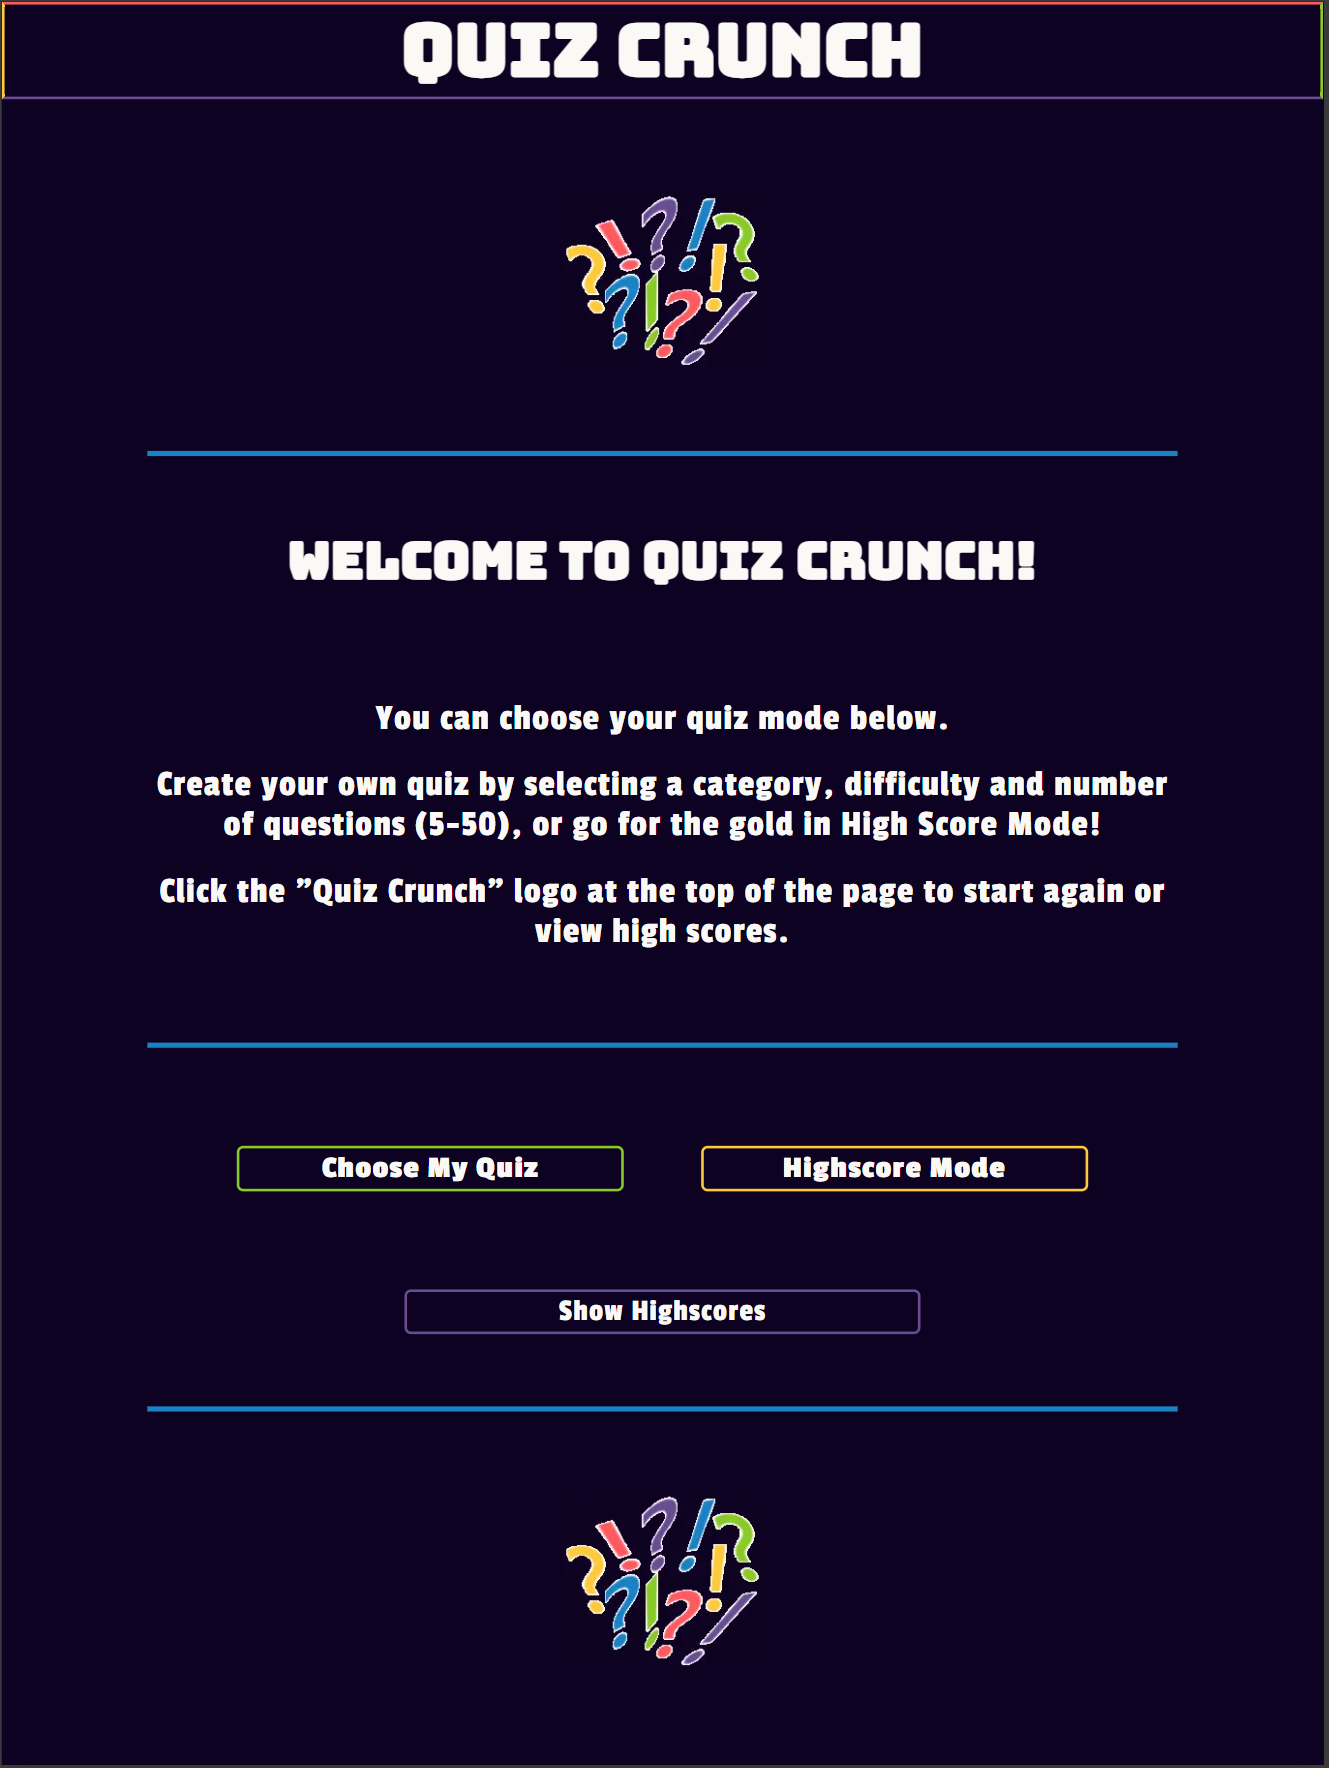
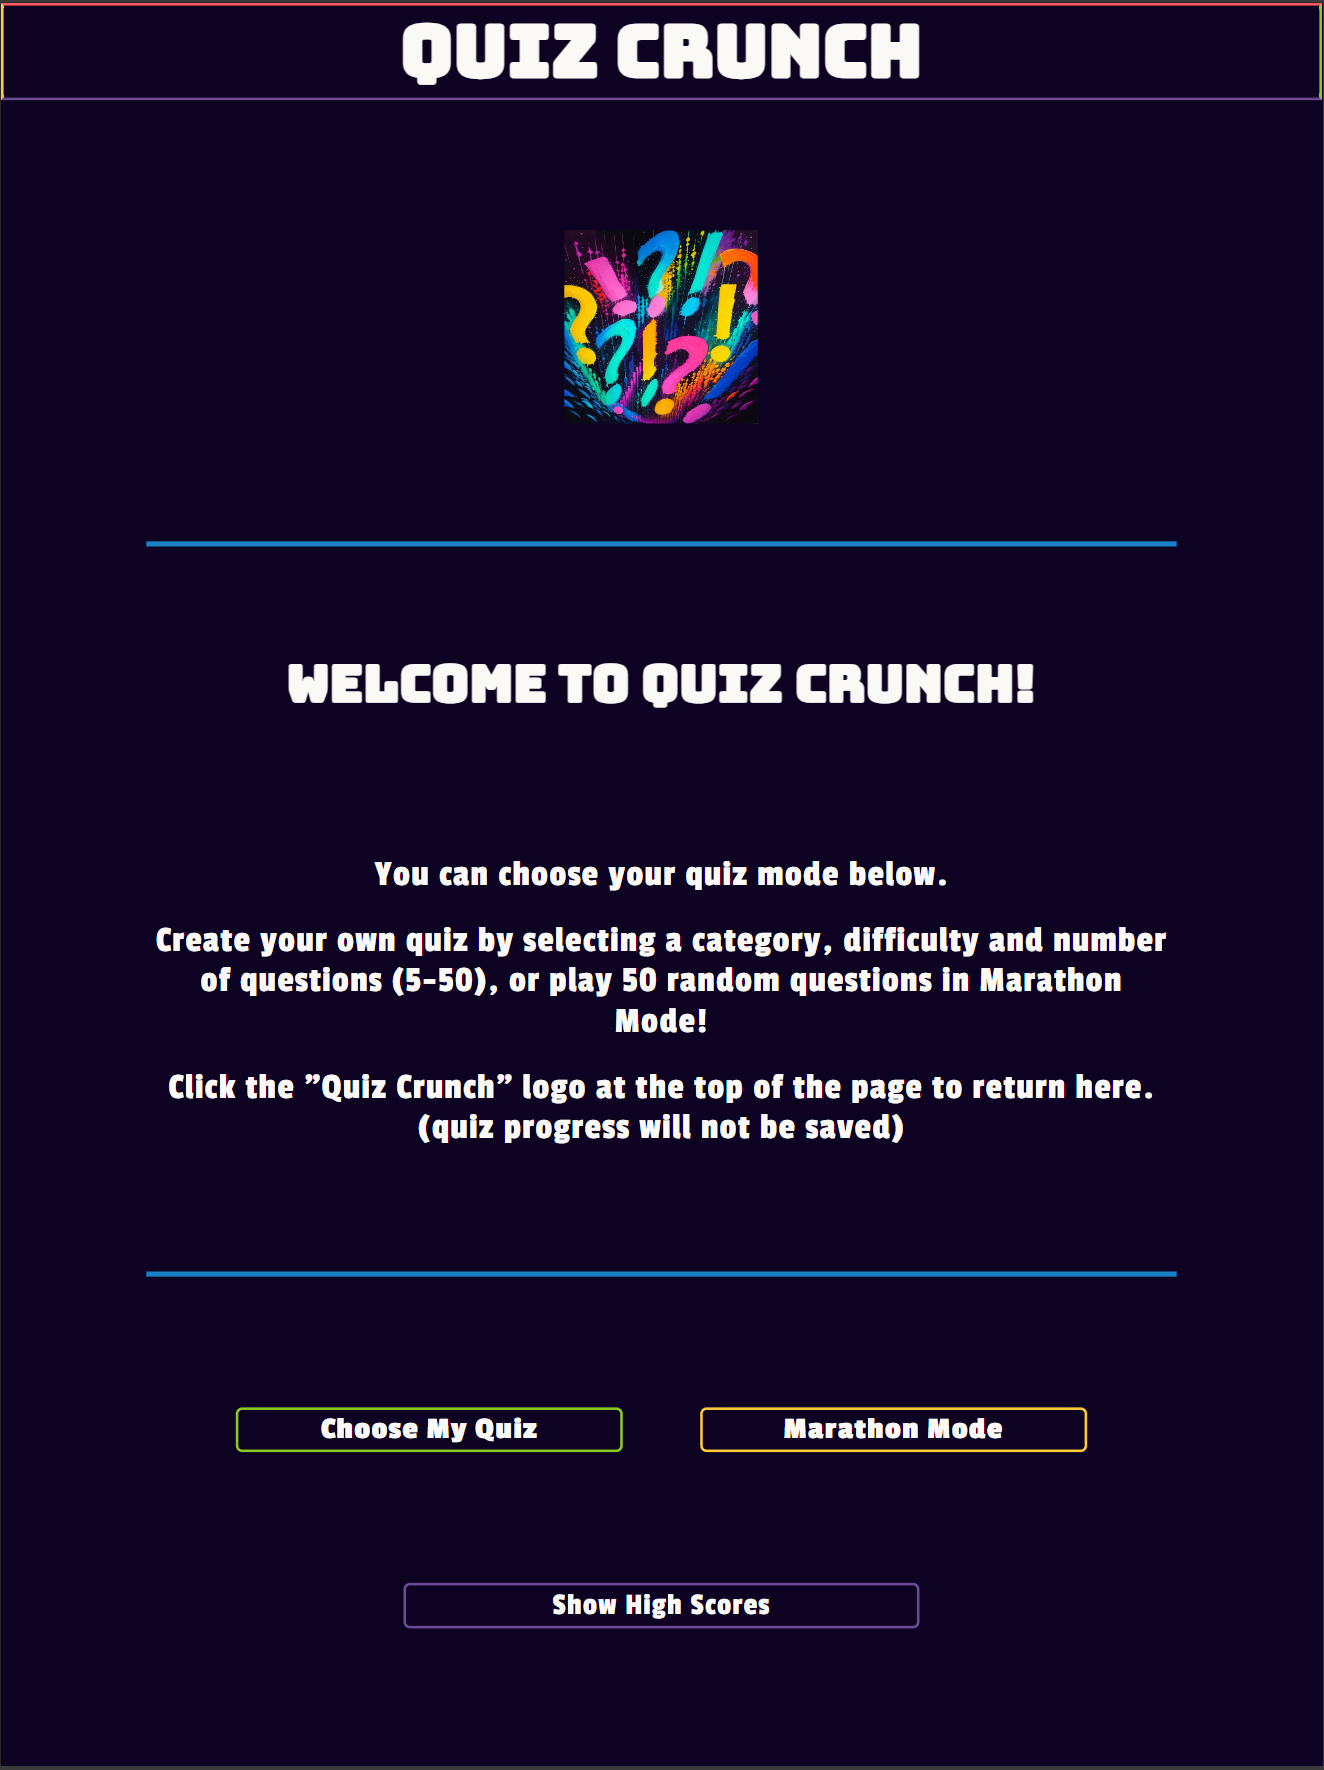
Fix link and update images for README

diff --git a/README.md b/README.md
@@ -78,7 +78,7 @@ I used 2 similar-looking fonts to add to the theme of the site. The font used fo
 
 ### Logo
 
-I used Microsoft Paint and the chosen colour palette to create a simple logo. I used question marks and exclamation marks to make a fun and vibrant logo. I then ran the image through the AI image generator, [imagine.art]](https://www.imagine.art/) to create a professional, fun looking logo. Although the AI image generator changed some of the colours used in the image, I feel as though the logo fits the theme of the site very well. 
+I used Microsoft Paint and the chosen colour palette to create a simple logo. I used question marks and exclamation marks to make a fun and vibrant logo. I then ran the image through the AI image generator, [imagine.art](https://www.imagine.art/) to create a professional, fun looking logo. Although the AI image generator changed some of the colours used in the image, I feel as though the logo fits the theme of the site very well. 
 
 ![Logo](/assets/images/logo.webp)
 
@@ -92,7 +92,7 @@ Before developing the site, I mocked up some simple wireframes of some of the se
 
 The site is made up of one single page, split into 5 different sections, with only one section being shown at a time. The 5 sections are welcome, form, ready, quiz, and high scores.
 
-From the welcome section, the user can decide to choose their own quiz, play a random 50 question quiz, or view their local highscores. 
+From the welcome section, the user can decide to choose their own quiz, play a random 50 question quiz, or view their local high scores. 
 
 When playing the quiz, the question will be shown with 4 answers, each in their own box. The user must press or click on their chosen answer to submit it. Once an answer has been pressed, the correct answer border is momentarily changed to green and all incorrect answers to red. There is also a "correct / wrong" feedback message displayed in place of the current score. The next question is automatically displayed until all questions have been played. There is no time limit for any questions.
 
@@ -102,7 +102,7 @@ Once all questions have been answered, the scores section is displayed, showing 
 
 #### Favicon
 
-I created a simple favicon using https://favicon.io/. I used the colours from my colour palette and the font from the site, to follow the theme.
+I created a simple favicon using https://favicon.io/. I used the colours from my colour palette and the font from the site, with the letters "QC", to follow the site's theme.
 
 ![Favicon](/assets/favicon/android-chrome-192x192.png)
 
